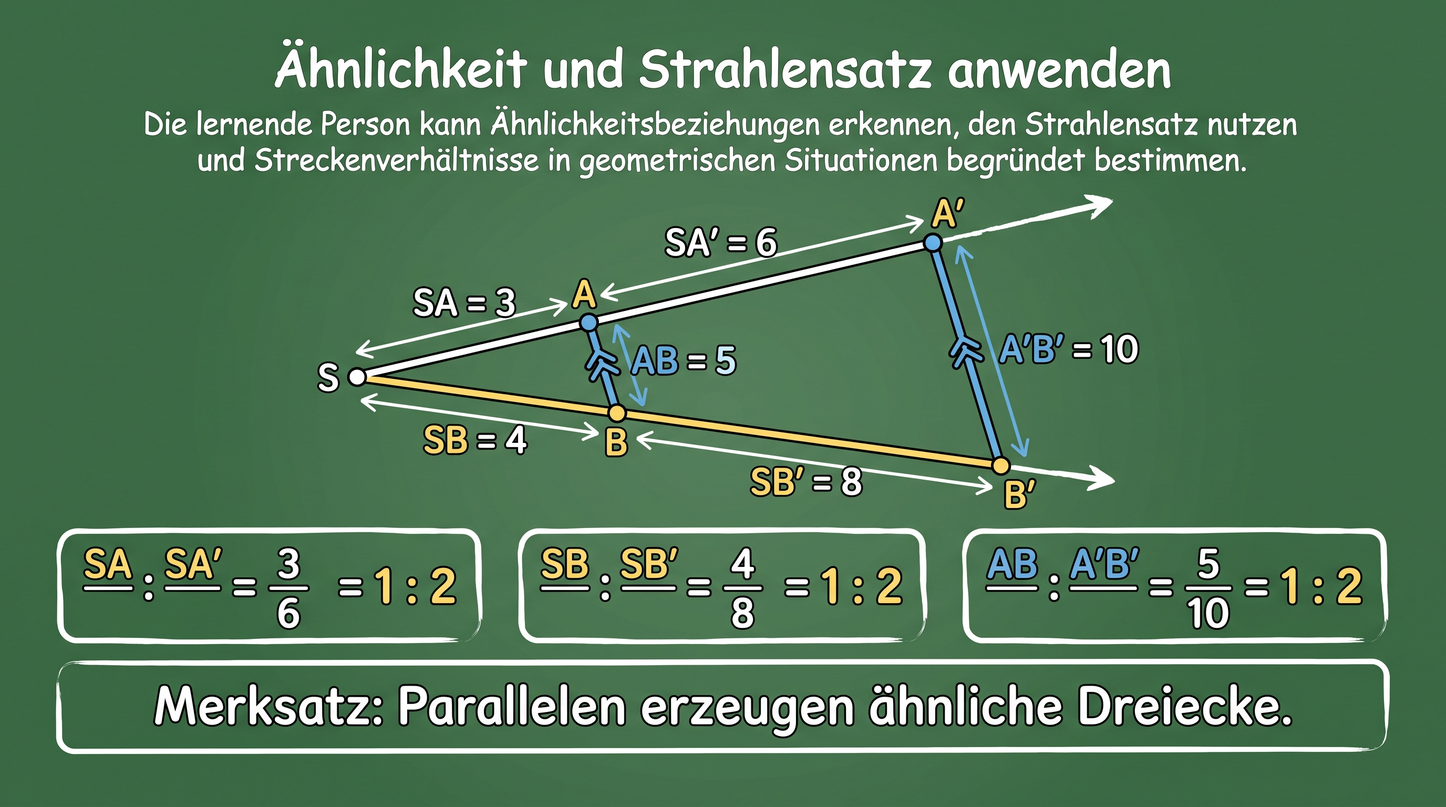
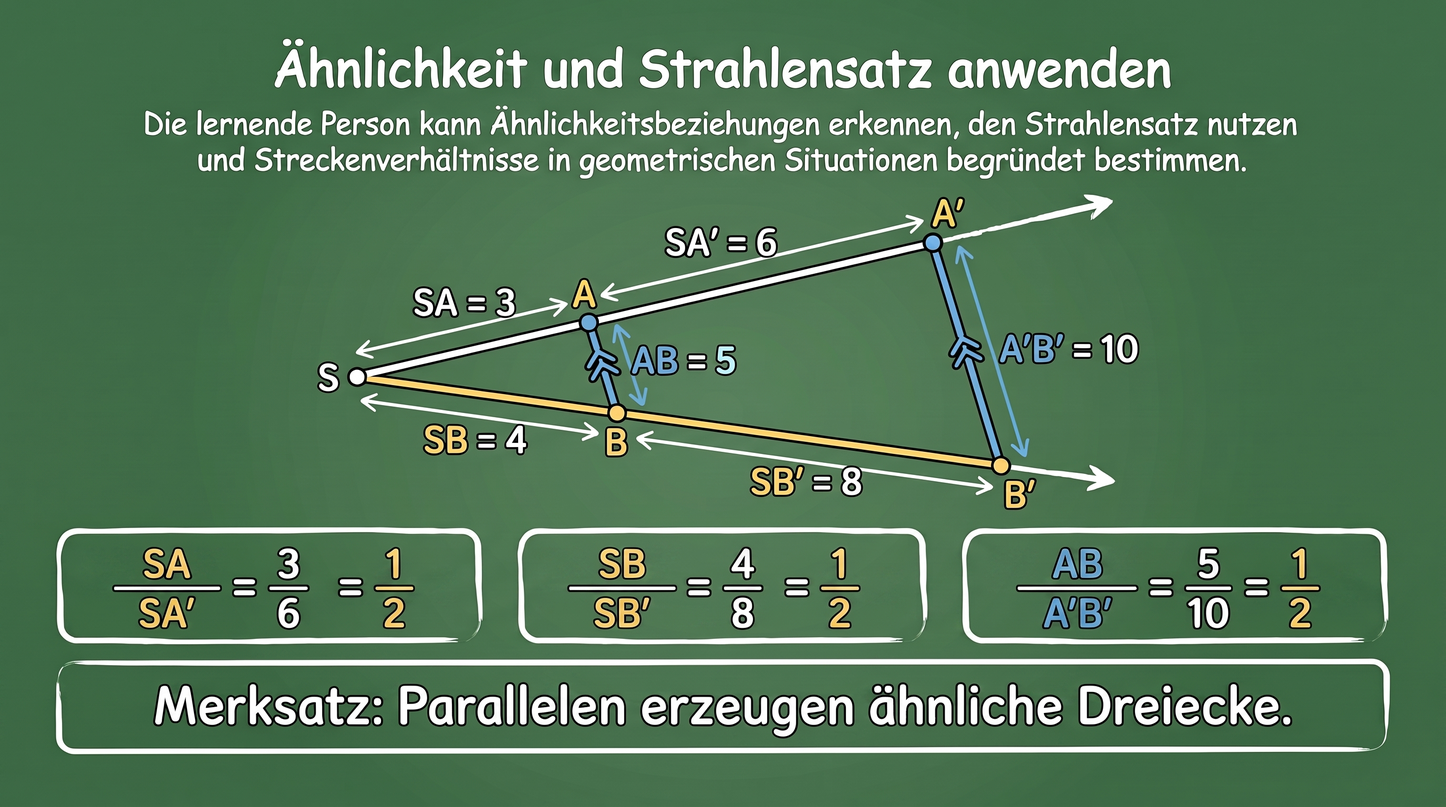
curriculum update (images)

diff --git a/curricula/DE/Gymnasium/visualizations/mathematik/ffd1ae26-c461-4439-9b18-d835c8f38e1a/prompt.de.md b/curricula/DE/Gymnasium/visualizations/mathematik/ffd1ae26-c461-4439-9b18-d835c8f38e1a/prompt.de.md
@@ -8,8 +8,8 @@
 
 ## Generator
 
-- Provider: Google Gemini / Nano Banana Pro
-- Status: pilot
+- Provider: Google Gemini / Nano Banana Pro (gemini-3-pro-image)
+- Status: approved
 - Quellbild: `ffd1ae26-c461-4439-9b18-d835c8f38e1a.jpg`
 - Public Asset: `/assets/goal-visualizations/mathematik/ffd1ae26-c461-4439-9b18-d835c8f38e1a/ffd1ae26-c461-4439-9b18-d835c8f38e1a.jpg`
 
@@ -19,10 +19,10 @@
 Bitte visualisiere das folgende Lernziel im einfachen Cartoon-Stil.
 
 Rahmen:
-- Zielgruppe: Gymnasium Mathematik.
+- Stil und Anspruch: klar, anschaulich und fachlich präzise; keine Zielgruppen-, Fach- oder Publikumshinweise als Bildtext.
 - Erzeuge eine klare, gut lesbare Infografik im Querformat.
 - Visualisiere genau dieses eine Lernziel; keine Zusatzthemen und keine Aufgabenlösung.
-- Nutze plausible mathematische Beispiele nur, wenn sie das Lernziel unmittelbar erklären.
+- Nutze plausible fachliche Beispiele nur, wenn sie das Lernziel unmittelbar erklären.
 - Keine Drittanbieterlogos, keine Arbeitsblatt-Kopie, keine geschützten Figuren.
 - Verwende wenig Text: kurze deutsche Labels statt langer Sätze.
 - Beschriftungen und mathematische Schreibweisen müssen fachlich korrekt und auch in kleiner Darstellung lesbar sein.
@@ -31,33 +31,44 @@ Titel: Ähnlichkeit und Strahlensatz anwenden
 Beschreibung: Die lernende Person kann Ähnlichkeitsbeziehungen erkennen, den Strahlensatz nutzen und Streckenverhältnisse in geometrischen Situationen begründet bestimmen.
 
 Zusatzanweisung:
-Erzeuge eine fachlich genaue Infografik zu Aehnlichkeit und Strahlensatz.
-
 Pflichtinhalt:
-- Zeichne zwei Strahlen mit gemeinsamem Scheitelpunkt `S`.
-- Zeichne zwei parallele Verbindungsstrecken zwischen den Strahlen: `AB` und `A'B'`.
-- Beschrifte die Laengen konsistent:
-  - `SA = 3`
-  - `SA' = 6`
-  - `SB = 4`
-  - `SB' = 8`
-  - `AB = 5`
-  - `A'B' = 10`
-- Markiere `AB || A'B'`.
-- Zeige die Verhaeltnisse:
-  - `SA : SA' = 3 : 6 = 1 : 2`
-  - `SB : SB' = 4 : 8 = 1 : 2`
-  - `AB : A'B' = 5 : 10 = 1 : 2`
-- Kurzer Merksatz: `Parallelen erzeugen aehnliche Dreiecke.`
+- Behalte eine anschauliche Tafel-Infografik zu Aehnlichkeit und Strahlensatz.
+- Zeichne zwei Strahlen mit gemeinsamem Startpunkt S.
+- Auf dem oberen Strahl liegen in dieser Reihenfolge S, A, A'.
+- Auf dem unteren Strahl liegen in dieser Reihenfolge S, B, B'.
+- Die Verbindungsstrecken AB und A'B' sind parallel.
+- Beschrifte die kurzen Strecken: SA = 3, SB = 4, AB = 5.
+- Das Label AB = 5 gehoert ausschliesslich an die kurze Verbindungsstrecke zwischen A und B.
+- Schreibe keine Laengenbeschriftung auf den Abschnitt von A nach A' und keine Laengenbeschriftung auf den Abschnitt von B nach B'.
+- Beschrifte die langen Strecken vom Startpunkt S aus: SA' = 6 und SB' = 8.
+- Verwende fuer Messungen bevorzugt einfache Messklammern oder Tickmarken ohne Pfeilspitzen. Pfeilspitzen koennen leicht falsch wirken.
+- Ganz wichtig: Die Messklammer fuer SA' beginnt exakt bei S und endet exakt bei A'. Sie darf nicht nur von A nach A' laufen und darf nicht vor A' enden.
+- Ganz wichtig: Die Messklammer fuer SB' beginnt exakt bei S und endet exakt bei B'. Sie darf nicht nur von B nach B' laufen und darf nicht vor B' enden.
+- Die Beschriftung SB = 4 muss sichtbar direkt am kurzen unteren Strahlabschnitt von S nach B stehen.
+- Beschrifte die grosse parallele Strecke mit A'B' = 10.
+- Das Label A'B' = 10 gehoert ausschliesslich an die lange Verbindungsstrecke zwischen A' und B'.
+- Zeige die Streckenrelationen nur mit sauberer Bruchschreibweise:
+  SA / SA' = 3 / 6 = 1 / 2
+  SB / SB' = 4 / 8 = 1 / 2
+  AB / A'B' = 5 / 10 = 1 / 2
+- Verwende keine Mischung aus Doppelpunkt, Geteilt-durch-Zeichen und Bruchstrichen in derselben Formel. Nur Bruchschreibweise.
+- Ein kurzer Merksatz ist erlaubt: "Parallelen erzeugen aehnliche Dreiecke."
+- Verwende korrekte deutsche Umlaute im Bild, insbesondere "Ähnlichkeit", "Strahlensatz" und "ähnliche".
 
 Vermeiden:
-- Keine nicht-parallelen Querstrecken.
-- Keine falschen Streckenverhaeltnisse.
-- Keine komplizierten Aufgabenloesungen.
-- Keine technischen IDs, keine Wasserzeichen.
-
-Layout:
-- Ein klarer geometrischer Tafelstil, gross lesbare Zahlen, wenig Text.
+- Kein Pfeil fuer SA', der erst bei A startet.
+- Kein Pfeil fuer SB', der erst bei B startet.
+- Kein Messpfeil fuer SA', der vor A' endet.
+- Kein Messpfeil fuer SB', der vor B' endet.
+- Kein fehlendes Label SB = 4.
+- Keine Formel wie "SA : SA'" oder "SA · SA'"; es muss ein Bruch SA / SA' sein.
+- Keine unklare Mischform aus Bruch und geteilt-durch-Zeichen.
+- Kein Label "AB = 5" auf dem Strahlabschnitt A bis A'. AB ist die Strecke von A nach B.
+- Kein Label "A'B' = 10" auf einem Strahl; A'B' ist die Strecke von A' nach B'.
+- Keine Laengenlabels fuer die Abschnitte A bis A' oder B bis B'.
+- Keine falsche Reihenfolge der Punkte auf den Strahlen.
+- Keine nicht-parallelen Strecken AB und A'B'.
+- Keine technischen IDs, Dateinamen, Plattformnamen, internen Pfade oder internen Zielgruppenlabels im Bild.
 ```
 
 ## Review-Notiz

diff --git a/curricula/DE/Gymnasium/quality/goal-visualization-review/mathematik-qa-correction-ffd1ae26-2026-07-06.md b/curricula/DE/Gymnasium/quality/goal-visualization-review/mathematik-qa-correction-ffd1ae26-2026-07-06.md
@@ -1,0 +1,52 @@
+# Goal visualization review - Mathematik correction ffd1ae26
+
+Date: 2026-07-06
+Subject: Mathematik
+Goal ID: ffd1ae26-c461-4439-9b18-d835c8f38e1a
+Title: Aehnlichkeit und Strahlensatz anwenden
+Status: accepted_after_user_issue_correction
+
+## User issue
+
+The prior image did not clearly show `SA'` and `SB'` as full distances from `S` to `A'` and `S` to `B'`. The relation boxes also mixed ratio notation, division-like marks, and fractions.
+
+## Generation
+
+- Pipeline: Nano Banana Pro via existing project script.
+- Reference image: existing public asset for this goal.
+- Batch file: `tmp/goal-visualization-correction-ffd1ae26.txt`
+- Prompt append: `tmp/goal-visualization-prompt-appends/mathematik-corrections/ffd1ae26-c461-4439-9b18-d835c8f38e1a.md`
+- Rejected candidate: `tmp/goal-visualizations/ffd1ae26-c461-4439-9b18-d835c8f38e1a/generated/ffd1ae26-c461-4439-9b18-d835c8f38e1a.generated.2026-07-06T12-53-49-857Z.jpg`
+  - Reason: `AB = 5` was placed on the ray segment from `A` to `A'` instead of on the connecting segment `AB`.
+- Rejected candidate: `tmp/goal-visualizations/ffd1ae26-c461-4439-9b18-d835c8f38e1a/generated/ffd1ae26-c461-4439-9b18-d835c8f38e1a.generated.2026-07-06T12-56-43-598Z.jpg`
+  - Reason: `SA' = 6` did not clearly reach `A'`, and `SB = 4` was missing in the geometry.
+- Accepted candidate: `tmp/goal-visualizations/ffd1ae26-c461-4439-9b18-d835c8f38e1a/generated/ffd1ae26-c461-4439-9b18-d835c8f38e1a.generated.2026-07-06T12-59-33-108Z.jpg`
+- Imported public asset: `app/public/assets/goal-visualizations/mathematik/ffd1ae26-c461-4439-9b18-d835c8f38e1a/ffd1ae26-c461-4439-9b18-d835c8f38e1a.jpg`
+- Canonical asset: `curricula/DE/Gymnasium/visualizations/mathematik/ffd1ae26-c461-4439-9b18-d835c8f38e1a/ffd1ae26-c461-4439-9b18-d835c8f38e1a.jpg`
+- Asset hash: `sha256:c9057fd4a92659dc4edd2ced5a490b079b00c37573bc4e31bf85c96d79ff6829`
+
+## Provider request safety
+
+The provider-facing text prompt was checked separately from embedded image bytes.
+
+- Technical goal ID in prompt text: no
+- Product/platform name in prompt text: no
+- Internal repository path in prompt text: no
+- School-form label in prompt text: no
+
+## Review decision
+
+Accepted.
+
+- `SA' = 6` is shown as the full stretch from `S` to `A'`.
+- `SB' = 8` is shown as the full stretch from `S` to `B'`.
+- `AB = 5` is shown on the short connecting segment from `A` to `B`.
+- `A'B' = 10` is shown on the long connecting segment from `A'` to `B'`.
+- The connecting segments `AB` and `A'B'` are visually parallel.
+- The relation boxes use clean fraction notation:
+  - `SA / SA' = 3 / 6 = 1 / 2`
+  - `SB / SB' = 4 / 8 = 1 / 2`
+  - `AB / A'B' = 5 / 10 = 1 / 2`
+- Visible German umlauts are correct.
+
+Residual risk: the accepted image is a didactic sketch rather than a ruler-perfect construction, but the marked source and target of each displayed segment match the labels.

diff --git a/curricula/DE/Gymnasium/quality/goal-visualization-review/mathematik-rollout-status.md b/curricula/DE/Gymnasium/quality/goal-visualization-review/mathematik-rollout-status.md
@@ -8,7 +8,7 @@
 > Source of truth: `curricula/DE/Gymnasium/canonical/DE_DEU_S_GYM_CANONICAL_MATHEMATIK.de.json`
 > Source of truth: `curricula/DE/Gymnasium/quality/goal-visualization-review`
 
-Generated: 2026-07-06T12:44:16.130Z
+Generated: 2026-07-06T13:03:56.482Z
 
 Scope: canonical `DE Gymnasium Mathematik`, atomic goal visualizations.
 
@@ -33,8 +33,8 @@ Scope: canonical `DE Gymnasium Mathematik`, atomic goal visualizations.
 
 | Status | Count |
 | --- | --- |
-| `approved` | 10 |
-| `pilot` | 744 |
+| `approved` | 11 |
+| `pilot` | 743 |
 
 ## Ledger Decisions
 
